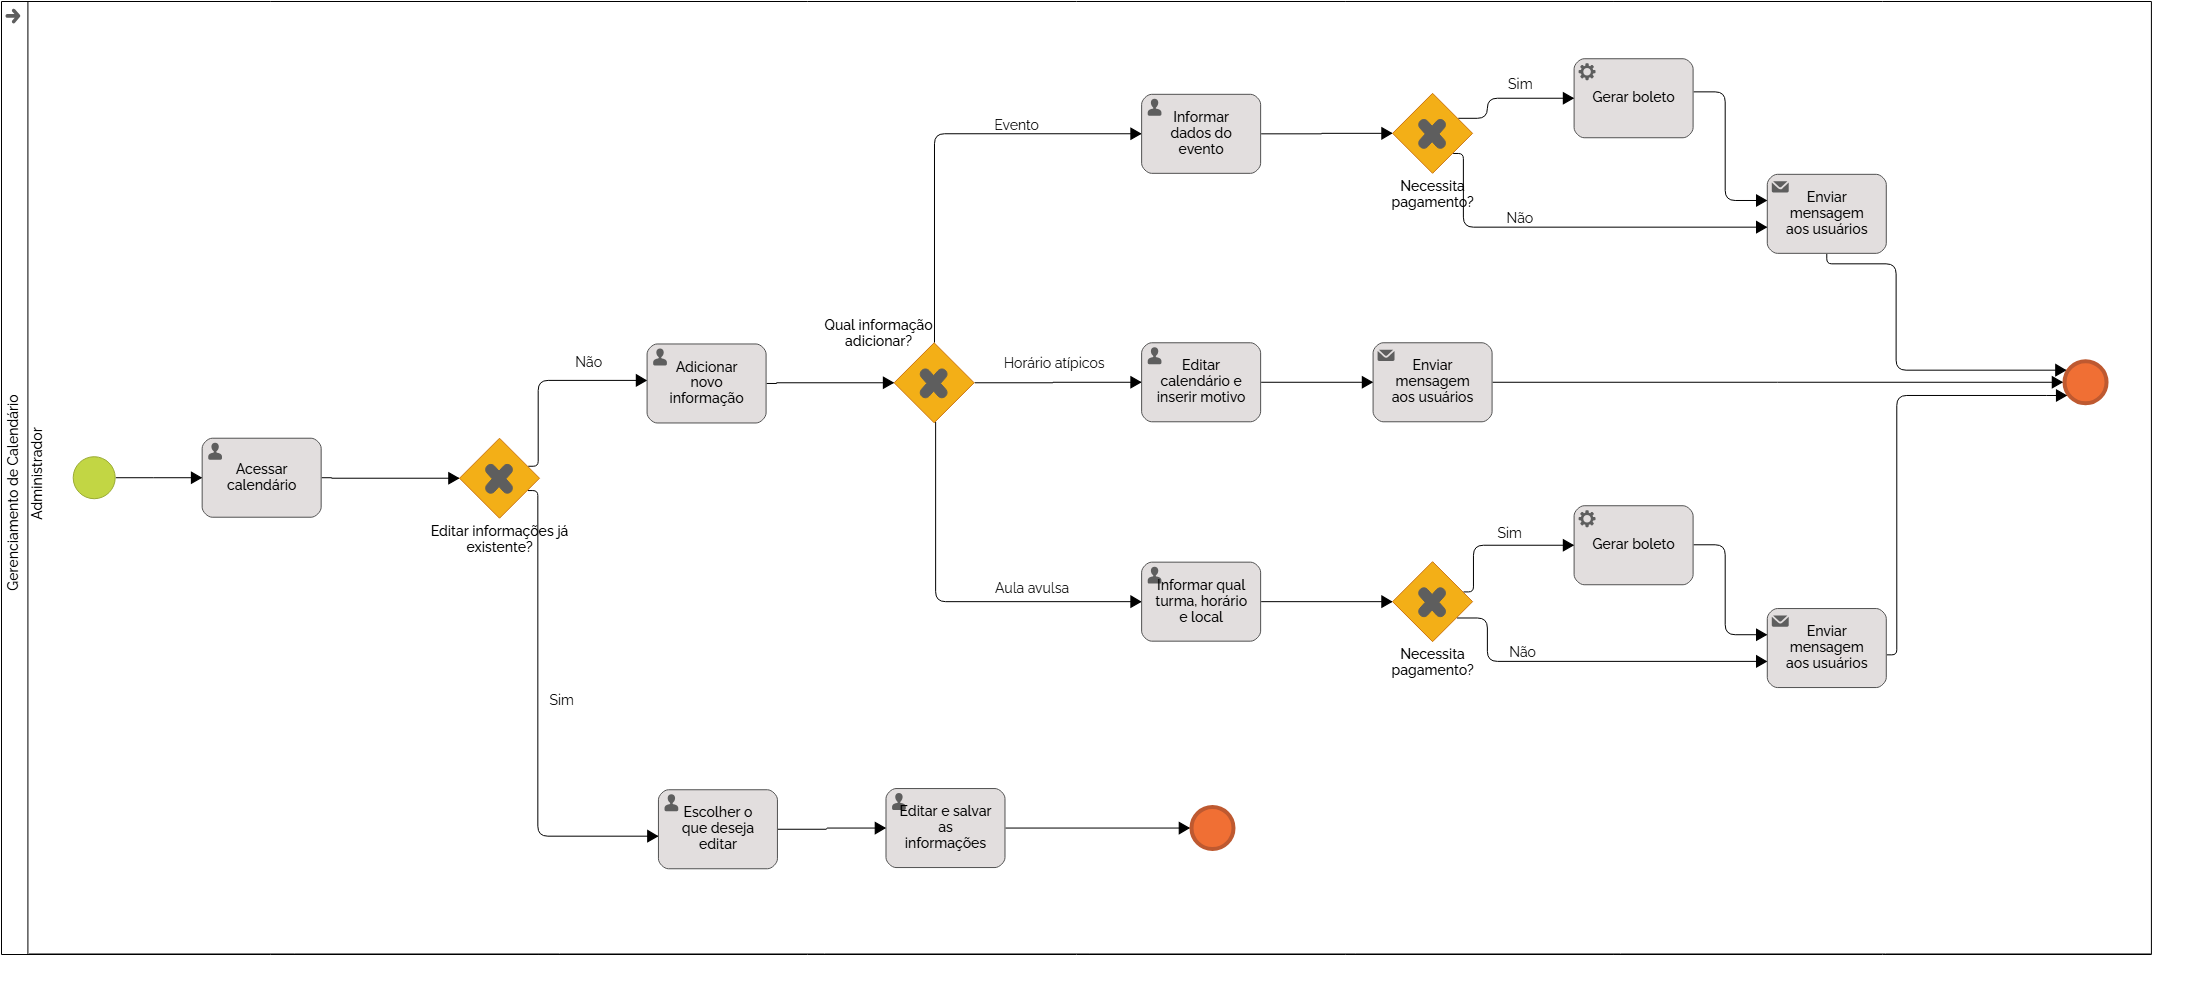
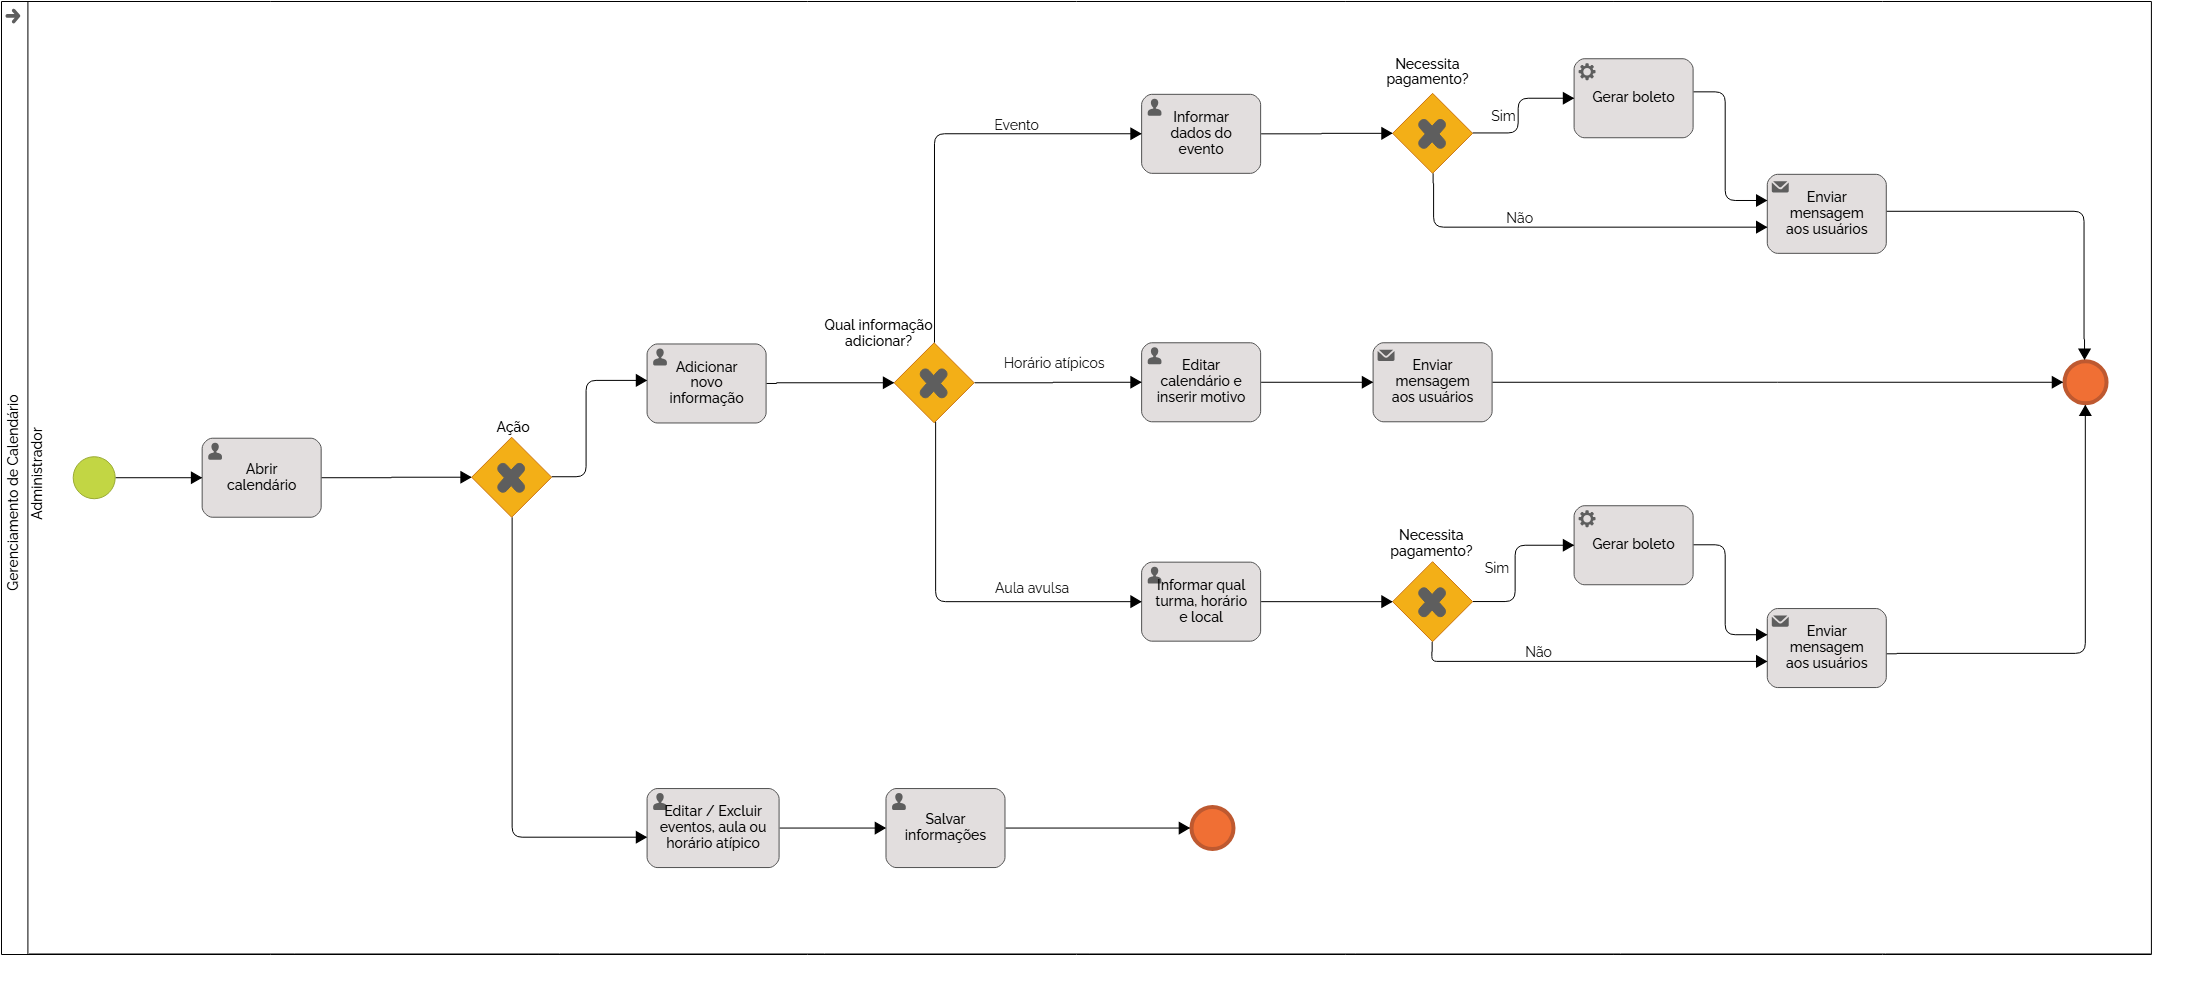
DOC: README.md / Edição do processo 3 - Gerenciamento de Calendário, melhoria no diagrama

diff --git a/docs/processo-3-gerenciamento-de-calendario.md b/docs/processo-3-gerenciamento-de-calendario.md
@@ -25,10 +25,10 @@ _Este é o processo de gerenciamento de calendário da escola, onde a administra
 2. O sistema valida os horários disponíveis.
 3. O administrador pode confirmar ou cancelar o registro.
 
-##### **Atividade 4 – Editar informações já existentes**
+##### **Atividade 4 – Editar/Exluir informações já existentes**
 
 1. O administrador acessa o sistema e seleciona a opção de edição.
-2. Ele escolhe o evento, horário atípico ou aula avulsa a ser editado.
+2. Ele escolhe o evento, horário atípico ou aula avulsa a ser editado ou exluído.
 3. O sistema exibe os dados atuais e permite a alteração.
 4. O administrador edita as informações e salva as alterações.
 5. O sistema valida os dados e atualiza o calendário.
@@ -41,7 +41,7 @@ _Este é o processo de gerenciamento de calendário da escola, onde a administra
 2. Caso necessário, ele adiciona eventos ao calendário, incluindo informações como taxa de participação e vencimentos.
 3. Para atividades extras, ele pode definir horários e locais específicos para cada turma.
 4. O sistema verifica automaticamente conflitos de agendamento antes de confirmar eventos e atividades.
-5. O administrador pode editar informações existentes, caso necessário.
+5. O administrador pode editar e excluir informações existentes, caso necessário.
 6. O calendário é atualizado e disponibilizado para consulta pelos alunos e demais interessados.
 
 ---
@@ -74,7 +74,7 @@ _Este é o processo de gerenciamento de calendário da escola, onde a administra
 | Data e horário | Data e Hora    | Deve estar dentro do calendário |                   |
 | Local          | Caixa de texto | Obrigatório                     |                   |
 
-#### **Nome da atividade 4 – Editar informações já existentes**
+#### **Nome da atividade 4 – Editar/Exluir informações já existentes**
 
 | **Campo**        | **Tipo**      | **Restrições**                      | **Valor default** |
 | ---------------- | ------------- | ----------------------------------- | ----------------- |
